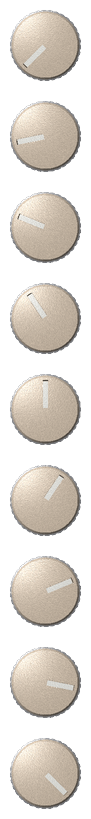
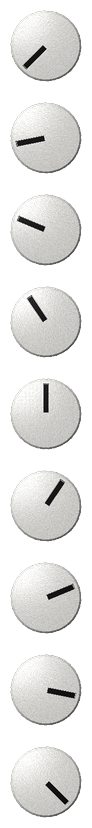
White HPF/LPF caps with a dark pointer, and let the LEDs spill light
The panel paints HPF and LPF a warm cream, which lands between a coloured cap
and a white one and reads as neither - and against it the white pointer nearly
vanished, which is what Ronald hit: "very bright, the detent is hard to see."

Those two caps are now overridden to a near-neutral white. The pointer needed no
special case: knob3d picks it by cap luminance, so a pale cap gets a dark line
and every coloured cap keeps a white one. That is what real consoles do and what
the SSL software reference does, and it means a future plugin cannot get this
wrong by choosing an unlucky colour.

LED glow: a lit segment now spills 3 px into the black around it, drawn as
rings stepping outwards with the alpha falling off. All the glow is laid down
before any segment is filled, otherwise one LED's halo paints over the LED
below it.

Alpha is 42, down from a first pass at 78. At 78 the halos of adjacent lit
segments met in the middle and bridged the gap between them, undoing the black
spacing this same commit widens. Verified by temporarily forcing eight segments
lit and screenshotting the running plugin - the meters read zero in the editor
host, so there is otherwise nothing to look at.

Meters are also narrower and shorter with wider gaps: 20 px wide, 6 px of black
between segments, 31% of the stack now black.

diff --git a/tools/make-assets.py b/tools/make-assets.py
@@ -22,7 +22,9 @@ highlight back at the top while leaving every rotating detail alone.
 
     python tools/make-assets.py
 """
+import argparse
 import json
+import math
 import os
 import sys
 
@@ -50,6 +52,16 @@ GAIN_STEPS = STEPS
 FREQ_STEPS = STEPS
 
 CAP_SATURATION = 1.30   # how far past the painted colour the caps are pushed
+
+# Caps that do NOT come from the art. The panel paints HPF and LPF a warm cream,
+# which lands between the coloured caps and a white one and reads as neither.
+# The SSL software look Ronald is after puts those two on a near-neutral white
+# cap with a dark pointer, while every coloured cap keeps a white one - and
+# knob3d already picks the pointer by cap luminance, so only the cap is set here.
+CAP_OVERRIDE = {
+    'hpf': (233, 232, 229),
+    'lpf': (233, 232, 229),
+}
 
 LIGHT_BLUR = 0.18       # lighting field = luminance blurred by this x diameter
 LIGHT_CLIP = (0.55, 1.85)   # bound the correction so dark knobs cannot blow up
@@ -103,8 +115,8 @@ METER_PAINTED = {
     'kInputMeter':  (153, 198, 211, 652),
     'kOutputMeter': (316, 198, 374, 652),
 }
-METER_MARGIN_X = 4      # art px inset from the painted LEDs, each side
-METER_MARGIN_Y = 8
+METER_MARGIN_X = 11     # art px inset from the painted LEDs, each side
+METER_MARGIN_Y = 20
 
 METERS = {tag: (x0 + METER_MARGIN_X, y0 + METER_MARGIN_Y,
                 x1 - METER_MARGIN_X, y1 - METER_MARGIN_Y)
@@ -120,7 +132,7 @@ METER_SEGMENTS = 12
 # proportionally far more visible. Inset and gap bring WetEQ into the same
 # proportion; the art behind is already black, so the inset just shows more of it.
 METER_INSET = 0         # px off each side of the painted window
-METER_GAP = 4           # px of black between segments (art is 17% of pitch)
+METER_GAP = 6           # px of black between segments
 
 
 def lighting_field(knob, blur_frac=LIGHT_BLUR):
@@ -143,6 +155,17 @@ def relit_frame(knob, light, angle):
     px = np.asarray(rot).astype(float)
     px[..., :3] = np.clip(px[..., :3] * ratio, 0, 255)
     return Image.fromarray(px.astype('uint8'), 'RGBA')
+
+
+def _parse_args():
+    ap = argparse.ArgumentParser(description=__doc__.splitlines()[0])
+    ap.add_argument('--tilt', type=float, default=0.0, metavar='DEG',
+                    help='raise the knob camera off the axis. 0 is what ships; '
+                         'anything else is for looking, since a tilted knob on '
+                         'a panel drawn face-on is a lie about where the viewer '
+                         'is standing')
+    ap.add_argument('--out', default=OUT, help='where to write the assets')
+    return ap.parse_args()
 
 
 def main():
@@ -185,7 +208,11 @@ def main():
         # Solve for the albedo that RENDERS as the painted colour, then push the
         # saturation past it a little: the panel art's caps are already muted by
         # its own lighting, and reproducing that exactly reads as washed out.
-        cap = knob3d.albedo_for(painted, saturation=CAP_SATURATION)
+        if name in CAP_OVERRIDE:
+            painted = CAP_OVERRIDE[name]
+            cap = knob3d.albedo_for(painted, saturation=1.0)
+        else:
+            cap = knob3d.albedo_for(painted, saturation=CAP_SATURATION)
 
         r_px = ring * knob3d.BODY_OVER_RING * scale
         probe, off = knob3d.render_at(r_px, 0.0, cap)
@@ -312,5 +339,31 @@ def write_uidesc(layout):
     print(f'\nwrote {path}')
 
 
+def _tilted(deg):
+    """Raise knob3d's camera off the axis for the duration of a run."""
+    import contextlib
+
+    @contextlib.contextmanager
+    def ctx():
+        if not deg:
+            yield
+            return
+        saved = knob3d.CAM.copy()
+        t = math.radians(deg)
+        dist = float(np.linalg.norm(knob3d.CAM - knob3d.TARGET))
+        knob3d.CAM = knob3d.TARGET + np.array([0.0, -math.sin(t), math.cos(t)]) * dist
+        try:
+            yield
+        finally:
+            knob3d.CAM = saved
+    return ctx()
+
+
 if __name__ == '__main__':
-    main()
+    _args = _parse_args()
+    OUT = _args.out
+    with _tilted(_args.tilt):
+        if _args.tilt:
+            print(f'camera raised {_args.tilt:g} deg off the axis '
+                  f'-- FOR LOOKING ONLY, do not ship these')
+        main()

diff --git a/WetEQ/source/ledmeterview.cpp b/WetEQ/source/ledmeterview.cpp
@@ -34,6 +34,25 @@ void LEDMeterView::draw(CDrawContext* context)
     context->setFillColor(windowBlack);
     context->drawRect(getViewSize(), kDrawFilled);
 
+    // Glow first, so the segments themselves land on top of it and stay crisp.
+    // Rings step outwards from each lit segment with the alpha falling off, and
+    // they are drawn for every lit LED before any segment is filled - otherwise
+    // a neighbour's glow would paint over the LED below it.
+    for (int i = 0; i < litCount; i++)
+    {
+        CRect seg = calculateSegmentRect(i);
+        CColor glow = getLitColor(i);
+        for (int s = glowSpread; s >= 1; s--)
+        {
+            CRect halo = seg;
+            halo.extend(static_cast<CCoord>(s), static_cast<CCoord>(s));
+            glow.alpha = static_cast<uint8_t>(glowAlpha * (glowSpread - s + 1)
+                                              / (glowSpread + 1));
+            context->setFillColor(glow);
+            context->drawRect(halo, kDrawFilled);
+        }
+    }
+
     // Draw each segment
     for (int i = 0; i < numSegments; i++)
     {

diff --git a/WetEQ/source/weteqcontroller.cpp b/WetEQ/source/weteqcontroller.cpp
@@ -224,11 +224,15 @@ IPlugView* PLUGIN_API WetEQController::createView(FIDString name)
         // Discrete zoom steps rather than a draggable window. VSTGUI puts these
         // in the editor's context menu and handles the resize itself.
         //
+        // 75 / 100 / 125 only. 150 and 200 were offered first and dropped:
+        // the assets are baked at 1x, so anything above 125 interpolates and
+        // goes soft, and offering a step that looks worse is not a feature.
+        //
         // Discrete on purpose: the panel is a fixed layout, so a free resize
         // buys nothing a step does not, and fixed steps are the only way to
         // ship bitmaps that match the scale being drawn. 533x800 at 100% is
         // small on a 4K display, which is the actual complaint.
-        editor->setAllowedZoomFactors({0.75, 1.0, 1.25, 1.5, 2.0});
+        editor->setAllowedZoomFactors({0.75, 1.0, 1.25});
         return editor;
     }
     return nullptr;

diff --git a/WetEQ/source/ledmeterview.h b/WetEQ/source/ledmeterview.h
@@ -48,6 +48,12 @@ protected:
     // permanently pinned.
     VSTGUI::CColor windowBlack{0, 0, 0, 255};
 
+    // A lit LED spills light onto the black around it. Drawn as a few
+    // translucent rings stepping outwards from each lit segment, brightest
+    // against the segment. Only lit ones glow - an unlit LED emits nothing.
+    int glowSpread = 3;         // px the spill reaches
+    uint8_t glowAlpha = 42;     // alpha of the innermost ring
+
     VSTGUI::CColor greenLit{0, 255, 0, 255};
     VSTGUI::CColor greenDark{10, 42, 10, 255};
     
